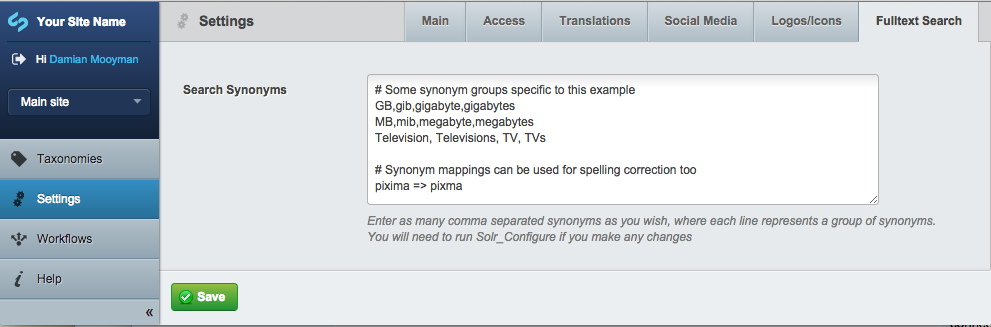
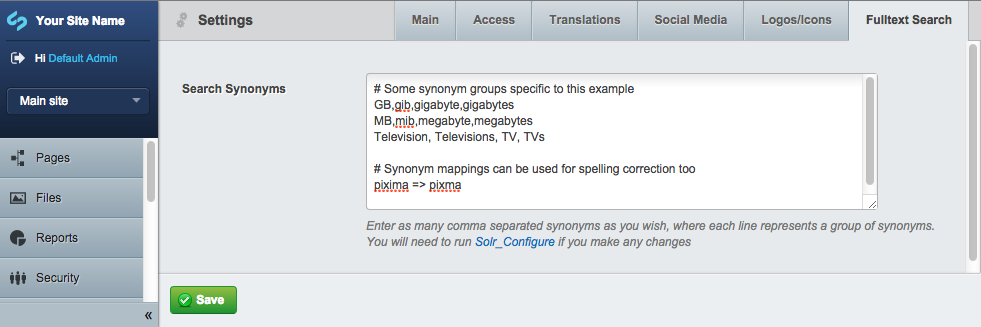
Make Solr_Configure a live link and restrict this field to admins.

diff --git a/code/extensions/SynonymsSiteConfig.php b/code/extensions/SynonymsSiteConfig.php
@@ -11,6 +11,11 @@ class SynonymsSiteConfig extends DataExtension {
 	);
 	
 	public function updateCMSFields(FieldList $fields) {
+		// Don't show this field if you're not an admin
+		if(!Permission::check('ADMIN')) {
+			return;
+		}
+		
 		// Search synonyms
 		$fields->addFieldToTab(
 			'Root.FulltextSearch',
@@ -19,7 +24,7 @@ class SynonymsSiteConfig extends DataExtension {
 					'CwpConfig.SearchSynonyms_Description',
 					'Enter as many comma separated synonyms as you wish, where '.
 					'each line represents a group of synonyms.<br /> ' .
-					'You will need to run Solr_Configure if you make any changes'
+					'You will need to run <a rel="external" target="_blank" href="dev/tasks/Solr_Configure">Solr_Configure</a> if you make any changes'
 				))
 		);
 	}

diff --git a/docs/en/cwp-features/solr_search.md b/docs/en/cwp-features/solr_search.md
@@ -339,6 +339,9 @@ mappings of alternatives to a preferred term can be specified using the `=>` ope
 See [the Apache Solr documentation](https://wiki.apache.org/solr/AnalyzersTokenizersTokenFilters#solr.SynonymFilterFactory)
 for more information on this format.
 
+Note that only admin users (who are those with privileges necessary to run the `Solr_Configure` task)
+will be able to view and edit this field.
+
 ![Synonyms](_images/synonyms.png)
 
 It's essential that after changing this value, a CMS administrator should run the `Solr_Configure`
